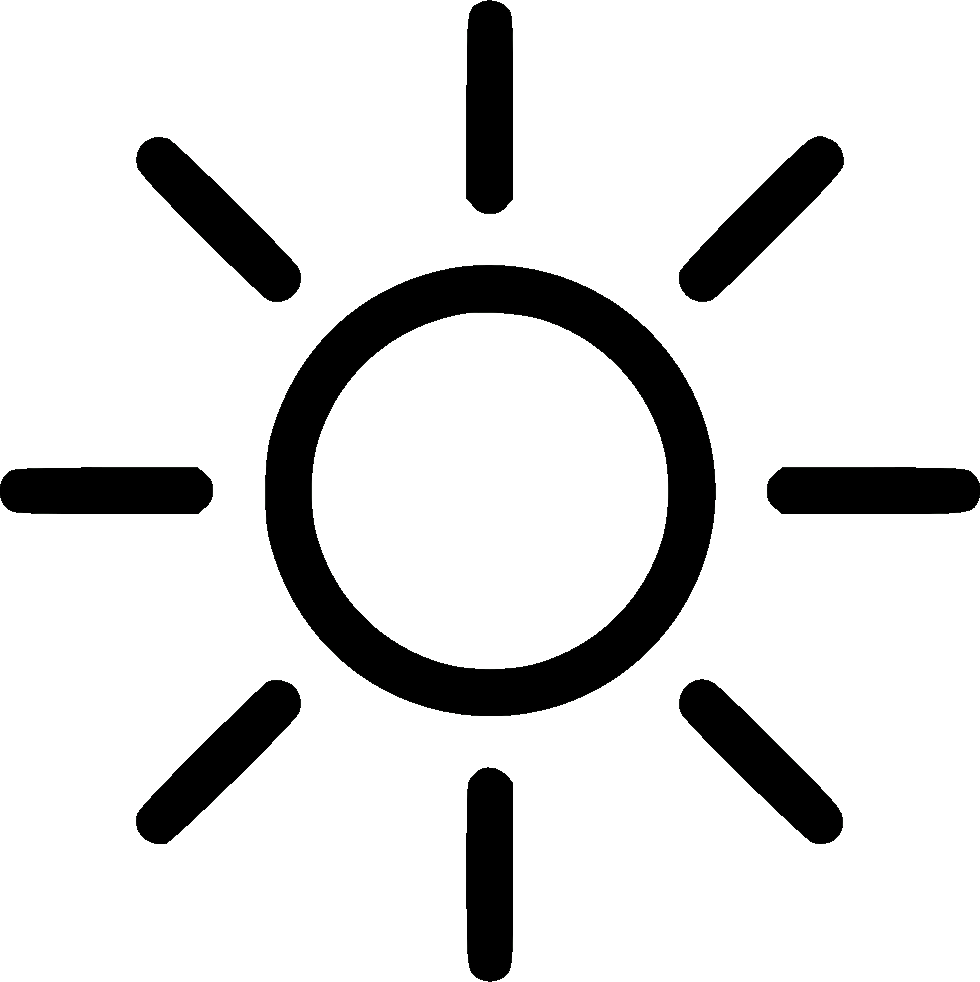
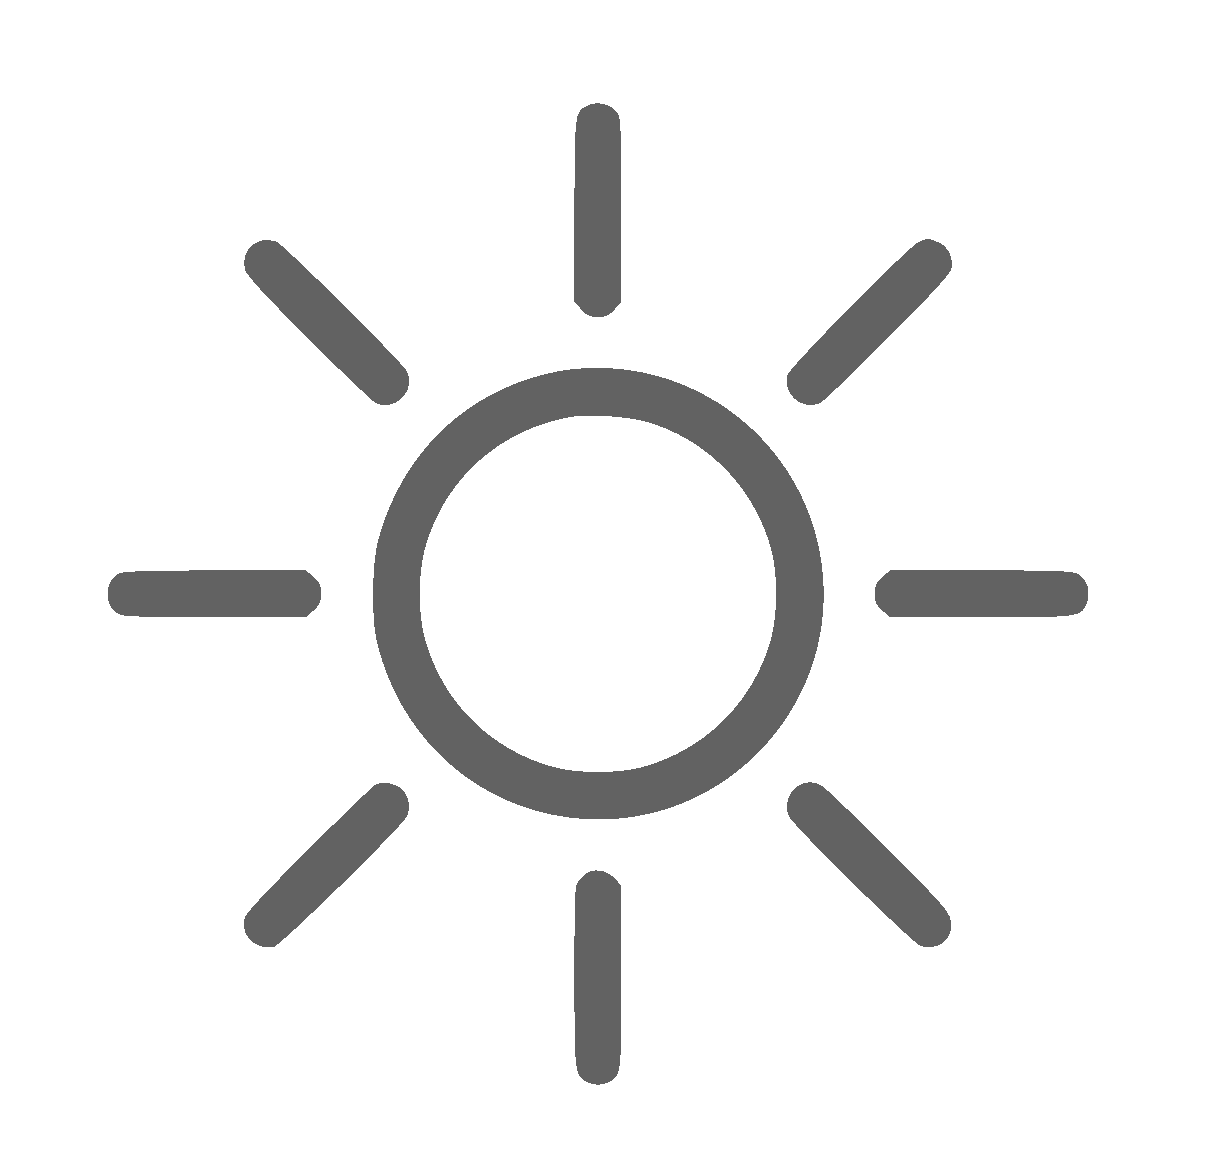
Add files via upload

Changed region(s): [[0.0, 0.0, 1.0, 1.0]]

diff --git a/backup.html b/backup.html
@@ -45,7 +45,7 @@
                     <button onclick="myFunction()" class="dropbtn"><img id="dropimg" src="Images/drop2.png"></button>
                         <div id="myDropdown" class="dropdown-content">
                             <!-- Dark/Light Toggle Button -->
-                            <a id="dltoggle" name="dark_light" onclick="toggleDarkLight()" title="Toggle dark/light mode"><img name="sun" src="Images/sun2.png" width="45" height="45"></a>
+                            <!--<a id="dltoggle" name="dark_light" onclick="toggleDarkLight()" title="Toggle dark/light mode"><img name="sun" src="Images/sun2.png" width="50" height="50"></a>-->
                             <a href=#home class="dropbtn">HOME</a>
                             <a href=#about class="dropbtn">ABOUT</a>
                             <a href=#projects class="dropbtn">CURRENT PROJECTS</a>
@@ -54,13 +54,16 @@
                             <!-- <a href=#accomplishments class="dropbtn">ACCOMPLISHMENTS</a -->
                             <a href=#interests class="dropbtn">INTERESTS</a>
                             <a href=#blog class="dropbtn">BLOG</a>
-                            <a href=#contact class="dropbtn">CONTACT</a>           
+                            <a href=#contact class="dropbtn">CONTACT</a><br>           
                         </div>
                 </div>
             </div>
 
             <!-- Scroll to top button -->
             <button onclick="topFunction()" id="topbtn"><img src="Images/up.png" class="topimg"></button>
+            
+            <!-- Dark/Light Toggle -->
+            <button onclick="toggleDarkLight()"  name="dark_light" id="dltoggle" title="Toggle dark/light mode"><img src="Images/sun.png" class="dlimg"></button>
 
             <!-- Home section -->
             <section id="home">
@@ -121,7 +124,7 @@
                                         I personally believe that in a world that is changing so fast with the exponential rise of technology, education is the one thing that hasn't changed. That's why I started <span style="font-weight: 600;">CountMeIn</span>, a passion project of mine that I started to help kids learn math in a more fun, effective way. 
                                     </p>
                                     <p class="boxpar"> 
-                                        If you'd like to chat more with me about CountMeIn, send me an email at <span style="font-weight: 600;">odosaobasuyi@gmail.com</span>.
+                                        If you'd to chat more with me about CountMeIn, send me an email at <span style="font-weight: 600;">odosaobasuyi@gmail.com</span>.
                                     </p><br> 
                             </div>
 
@@ -230,7 +233,7 @@
                             <img src="Images/lightbulb.png" class="boximg">
                             <p class="boxtitle">ENTREPRENEURSHIP</p>
                             <p class="boxpar"> 
-                                I have been part of a number of entrepreneurship programs including Future Design School (FDS), The Knowledge Society (TKS), and SHAD and I am the Co-Founder of Memofood.
+                                I have been part of a number of entrepreneurship programs including Future Design School (FDS), The Knowledge Society (TKS), and SHAD and am the Co-Founder of Memofood.
                             </p><br> 
                         </div>
 
@@ -422,13 +425,30 @@
         // Start the typing effect on load
         intervalnum = setInterval(Type, 60);
             
+        
+        
+        /***** CHANGE IMAGE *****/
+        var n = 0;
+
+        function changeImage() {
+          if ( n == 0 ) {
+            document.getElementsByClassName('dlimg')[0].src = "Images/sun.png";
+            n = 1;
+          }
+          else if ( n == 1 ) {
+            document.getElementsByClassName('dlimg')[0].src = "Images/moon.png";
+            n = 0;
+          }
+        }
+            
             
             
         /***** DARK/LIGHT TOGGLE *****/
         function toggleDarkLight() {
-          var body = document.getElementById("body");
-          var currentClass = body.className;
-          body.className = currentClass == "dark-mode" ? "light-mode" : "dark-mode";
+            var body = document.getElementById("body");
+            var currentClass = body.className;
+            body.className = currentClass == "dark-mode" ? "light-mode" : "dark-mode";
+            changeImage();
         }
            
             
@@ -442,21 +462,24 @@
         function scrollFunction() {
           if (document.body.scrollTop > 300 || document.documentElement.scrollTop > 300) {
             document.getElementById("topbtn").style.display = "block";
+            document.getElementById("dltoggle").style.display = "block";
             document.getElementsByClassName('topnav')[0].style.backgroundColor = "white";
             document.getElementsByClassName('topnav')[0].style.boxShadow = "0px 8px 16px 0px rgba(0,0,0,0.2)";
             document.getElementsByClassName('dropdown-content')[0].style.backgroundColor = "white";
+            document.getElementsByClassName('dropdown-content')[0].style.opacity = "1";
             document.getElementById('logoimg').src = "Images/logo2.png";
             document.getElementById('dropimg').src = "Images/drop.png";
-            document.getElementsByName('sun')[0].src = "Images/sun.png";
+              
           } else {
             document.getElementById("topbtn").style.display = "none";
+            document.getElementById("dltoggle").style.display = "none";
             document.getElementsByClassName('topnav')[0].style.backgroundColor = "transparent";
             document.getElementsByClassName('topnav')[0].style.boxShadow = "none";
-            document.getElementsByClassName('dropdown-content')[0].style.backgroundColor = "transparent";
+            document.getElementsByClassName('dropdown-content')[0].style.backgroundColor = "black";
+            document.getElementsByClassName('dropdown-content')[0].style.opacity = "0.8";
             document.getElementsByClassName('dropdown-content')[0].style.color = "white";
             document.getElementById('logoimg').src = "Images/logo.png";
             document.getElementById('dropimg').src = "Images/drop2.png";
-            document.getElementsByName('sun')[0].src = "Images/sun2.png";
           }
         }
 

diff --git a/index.html b/index.html
@@ -45,7 +45,7 @@
                     <button onclick="myFunction()" class="dropbtn"><img id="dropimg" src="Images/drop2.png"></button>
                         <div id="myDropdown" class="dropdown-content">
                             <!-- Dark/Light Toggle Button -->
-                            <a id="dltoggle" name="dark_light" onclick="toggleDarkLight()" title="Toggle dark/light mode"><img name="sun" src="Images/sun2.png" width="45" height="45"></a>
+                            <!--<a id="dltoggle" name="dark_light" onclick="toggleDarkLight()" title="Toggle dark/light mode"><img name="sun" src="Images/sun2.png" width="50" height="50"></a>-->
                             <a href=#home class="dropbtn">HOME</a>
                             <a href=#about class="dropbtn">ABOUT</a>
                             <a href=#projects class="dropbtn">CURRENT PROJECTS</a>
@@ -54,13 +54,16 @@
                             <!-- <a href=#accomplishments class="dropbtn">ACCOMPLISHMENTS</a -->
                             <a href=#interests class="dropbtn">INTERESTS</a>
                             <a href=#blog class="dropbtn">BLOG</a>
-                            <a href=#contact class="dropbtn">CONTACT</a>           
+                            <a href=#contact class="dropbtn">CONTACT</a><br>           
                         </div>
                 </div>
             </div>
 
             <!-- Scroll to top button -->
             <button onclick="topFunction()" id="topbtn"><img src="Images/up.png" class="topimg"></button>
+            
+            <!-- Dark/Light Toggle -->
+            <button onclick="toggleDarkLight()"  name="dark_light" id="dltoggle" title="Toggle dark/light mode"><img src="Images/sun.png" class="dlimg"></button>
 
             <!-- Home section -->
             <section id="home">
@@ -121,7 +124,7 @@
                                         I personally believe that in a world that is changing so fast with the exponential rise of technology, education is the one thing that hasn't changed. That's why I started <span style="font-weight: 600;">CountMeIn</span>, a passion project of mine that I started to help kids learn math in a more fun, effective way. 
                                     </p>
                                     <p class="boxpar"> 
-                                        If you'd like to chat more with me about CountMeIn, send me an email at <span style="font-weight: 600;">odosaobasuyi@gmail.com</span>.
+                                        If you'd to chat more with me about CountMeIn, send me an email at <span style="font-weight: 600;">odosaobasuyi@gmail.com</span>.
                                     </p><br> 
                             </div>
 
@@ -230,7 +233,7 @@
                             <img src="Images/lightbulb.png" class="boximg">
                             <p class="boxtitle">ENTREPRENEURSHIP</p>
                             <p class="boxpar"> 
-                                I have been part of a number of entrepreneurship programs including Future Design School (FDS), The Knowledge Society (TKS), and SHAD and I am the Co-Founder of Memofood.
+                                I have been part of a number of entrepreneurship programs including Future Design School (FDS), The Knowledge Society (TKS), and SHAD and am the Co-Founder of Memofood.
                             </p><br> 
                         </div>
 
@@ -422,13 +425,30 @@
         // Start the typing effect on load
         intervalnum = setInterval(Type, 60);
             
+        
+        
+        /***** CHANGE IMAGE *****/
+        var n = 0;
+
+        function changeImage() {
+          if ( n == 0 ) {
+            document.getElementsByClassName('dlimg')[0].src = "Images/sun.png";
+            n = 1;
+          }
+          else if ( n == 1 ) {
+            document.getElementsByClassName('dlimg')[0].src = "Images/moon.png";
+            n = 0;
+          }
+        }
+            
             
             
         /***** DARK/LIGHT TOGGLE *****/
         function toggleDarkLight() {
-          var body = document.getElementById("body");
-          var currentClass = body.className;
-          body.className = currentClass == "dark-mode" ? "light-mode" : "dark-mode";
+            var body = document.getElementById("body");
+            var currentClass = body.className;
+            body.className = currentClass == "dark-mode" ? "light-mode" : "dark-mode";
+            changeImage();
         }
            
             
@@ -442,21 +462,24 @@
         function scrollFunction() {
           if (document.body.scrollTop > 300 || document.documentElement.scrollTop > 300) {
             document.getElementById("topbtn").style.display = "block";
+            document.getElementById("dltoggle").style.display = "block";
             document.getElementsByClassName('topnav')[0].style.backgroundColor = "white";
             document.getElementsByClassName('topnav')[0].style.boxShadow = "0px 8px 16px 0px rgba(0,0,0,0.2)";
             document.getElementsByClassName('dropdown-content')[0].style.backgroundColor = "white";
+            document.getElementsByClassName('dropdown-content')[0].style.opacity = "1";
             document.getElementById('logoimg').src = "Images/logo2.png";
             document.getElementById('dropimg').src = "Images/drop.png";
-            document.getElementsByName('sun')[0].src = "Images/sun.png";
+              
           } else {
             document.getElementById("topbtn").style.display = "none";
+            document.getElementById("dltoggle").style.display = "none";
             document.getElementsByClassName('topnav')[0].style.backgroundColor = "transparent";
             document.getElementsByClassName('topnav')[0].style.boxShadow = "none";
-            document.getElementsByClassName('dropdown-content')[0].style.backgroundColor = "transparent";
+            document.getElementsByClassName('dropdown-content')[0].style.backgroundColor = "black";
+            document.getElementsByClassName('dropdown-content')[0].style.opacity = "0.8";
             document.getElementsByClassName('dropdown-content')[0].style.color = "white";
             document.getElementById('logoimg').src = "Images/logo.png";
             document.getElementById('dropimg').src = "Images/drop2.png";
-            document.getElementsByName('sun')[0].src = "Images/sun2.png";
           }
         }
 

diff --git a/stylesheet.css b/stylesheet.css
@@ -49,10 +49,6 @@
             .graydiv {
                 background-color: #D2D2D2;
             }
-
-            .whitediv {
-                background-color: white;
-            }
             
             .copydiv {
                 background-color: #212121; 
@@ -63,11 +59,11 @@
             /* Light/Dark Mode */
             body.dark-mode {
                 background-color: #1C1C1C;
-                color: white;
+                color: #f0f0f0;
             }
             
             p.dark-mode {
-                color: white;
+                color: #f0f0f0;
             }
             
             /*body.dark-mode button {
@@ -77,11 +73,11 @@
 
             body.light-mode {
                 background-color: white;
-                color: black;
+                color: #323232;
             }
             
             p.light-mode {
-                color: #4d4d4d;
+                color: #323232;
             }
             
             /*body.light-mode button {
@@ -237,7 +233,8 @@
                 display: none;
                 position: fixed;
                 left: 0;
-                background-color: inherit;
+                background-color: black;
+                opacity: 0.8;
                 width: 100%;
                 text-align: center;
                 z-index: 1;
@@ -249,11 +246,11 @@
                 padding: 12px 16px;
                 text-decoration: none;
                 display: block;
-                text-align: left;
+                text-align: center;
             }
             
             .dropdown-content a:hover {
-                background-color: #ddd;
+                color: #d4d4d4;
             }
 
             .dropdown:hover .dropdown-content {
@@ -261,10 +258,32 @@
             }
 
             /* Dark/Light Toggle */
-            #dltoggle {
+            /*#dltoggle {
                 margin-left: 1%;
+                display: block;
                 cursor: pointer; 
-                width: 7%;
+            }*/
+
+            #dltoggle {
+                display: none;
+                position: fixed;
+                bottom: 20px;
+                left: 30px;
+                z-index: 3;
+                font-size: 18px;
+                border: none;
+                outline: none;
+                color: white;
+                cursor: pointer;
+                padding: 5px;
+                border-radius: 4px;
+                background-color: transparent;
+                box-shadow: 0px 8px 16px 0px rgba(0,0,0,0.2);
+            }
+
+            .dlimg {
+                width: 50px;
+                
             }
 
             /* Logo */
